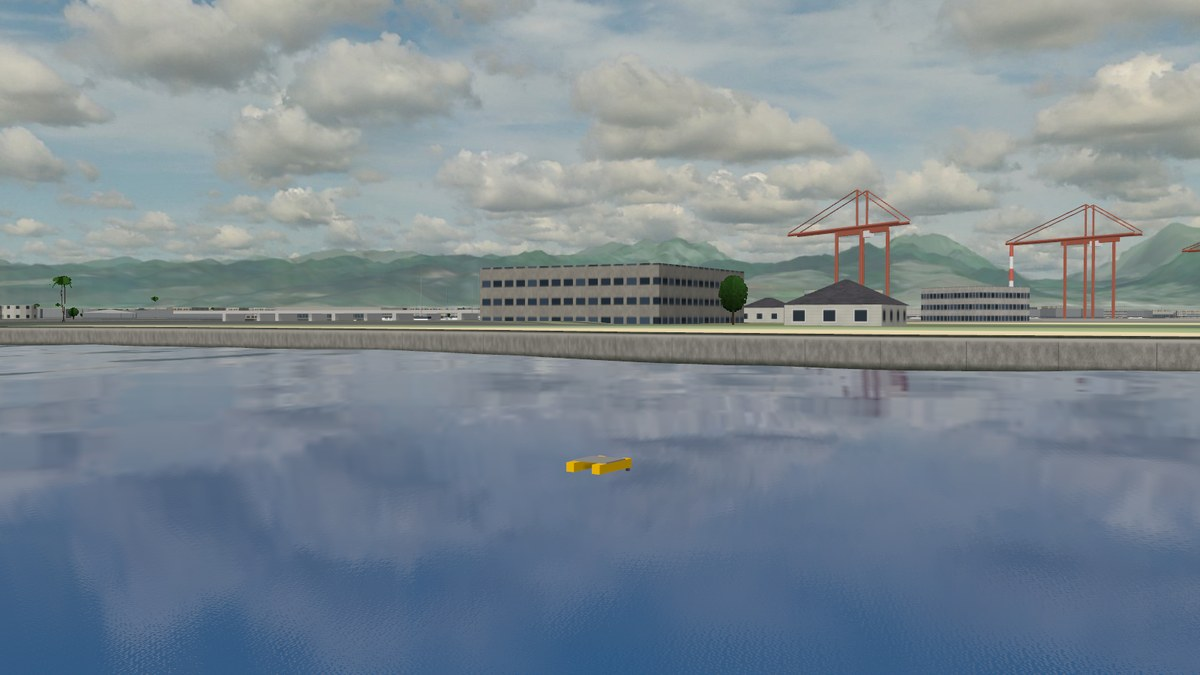
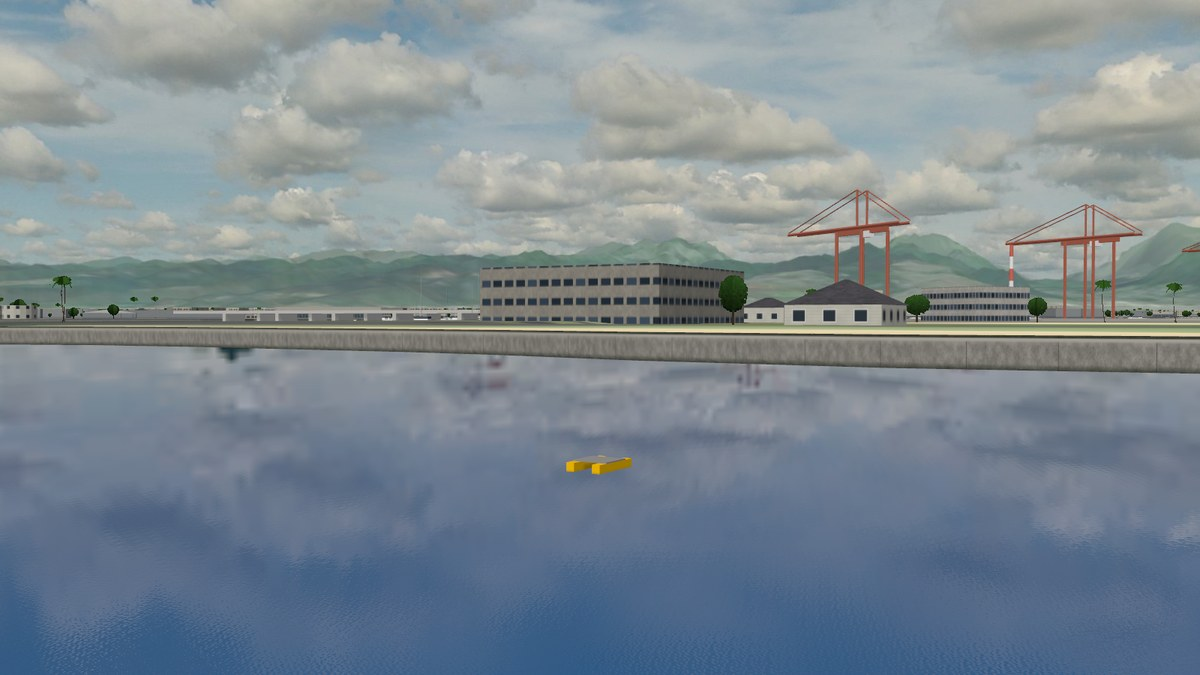
Docs: the BlueBoat at Sand Island in front of its container terminal, and every figure at the sea state it asks for
Assisted-by: Claude Code

diff --git a/docs/_tools/gazebo_figures.py b/docs/_tools/gazebo_figures.py
@@ -17,9 +17,8 @@ Regenerate the Gazebo screenshots used in the documentation.
 
 The studio pictures of the vehicles (docs/vehicles/images/*-studio.jpg) are
 not made here: they are renders composited onto a backdrop, copied in. Nor
-are the BlueBoat picture (docs/vehicles/images/blueboat.jpg) and the home
-picture (docs/images/home.jpg): they are frames of clips of the BlueBoat
-riding the waves on gz-maritime's Surface system, copied in.
+is the home picture (docs/images/home.jpg): it is a frame of a clip of three
+BlueBoats riding the waves on gz-maritime's Surface system, copied in.
 
 The BlueBoat in the figures below floats on the Surface system too: give it a
 model built with `configure_vehicle.py --buoyancy=surface` in place of
@@ -45,6 +44,7 @@ the site figures, the sites in the Fuel cache (run each world once).
 
 import os
 from pathlib import Path
+import re
 import subprocess
 import sys
 import tempfile
@@ -125,6 +125,19 @@ FIGURES = {
         'sea_state': 3,
         'camera': '57.7 116.7 2.4 0 -0.1 0.95',
         'fov': 0.9,
+        'at': [10],
+        'far': 5000,
+    },
+    # In the channel at Sand Island, the island's container terminal behind.
+    # Sea state 1, as calm as the water the site draws in the channel: the
+    # site's shelter map calms only the drawn sea.
+    'blueboat': {
+        'out': DOCS / 'vehicles' / 'images' / 'blueboat.jpg',
+        'world': 'sand_island',
+        'vehicles': [('model://blueboat', 'blueboat', '60 120 0.05 0 0 -2.6')],
+        'sea_state': 1,
+        'camera': '54.8 120 1.3 0 0.05 0',
+        'fov': SITE_FOV,
         'at': [10],
         'far': 5000,
     },
@@ -241,8 +254,8 @@ def figure_world(_figure):
              / 'worlds' / f'{_figure.get("world", "open_water")}.sdf').read_text()
     world = world.replace('<ambient>0.0 1.0 1.0</ambient>',
                           '<ambient>0.4 0.4 0.4</ambient>', 1)
-    world = world.replace('<sea_state>1</sea_state>',
-                          f'<sea_state>{_figure["sea_state"]}</sea_state>', 1)
+    world = re.sub(r'<sea_state>\d</sea_state>',
+                   f'<sea_state>{_figure["sea_state"]}</sea_state>', world)
     extra = ''.join(
         f'<include><uri>{v[0]}</uri><name>{v[1]}</name>'
         + (f'<pose>{v[2]}</pose>' if len(v) > 2 else '')

diff --git a/docs/vehicles/bluerobotics.md b/docs/vehicles/bluerobotics.md
@@ -1,9 +1,9 @@
 # BlueBoat and BlueROV2
 
 ```{figure} images/blueboat.jpg
-:alt: The BlueBoat, a blue twin hull surface vehicle with an antenna mast, riding the swell off Sand Island, the port cranes and mountains of Honolulu behind
+:alt: The BlueBoat, a blue twin hull surface vehicle with an antenna mast, in the channel at Sand Island, the island's container cranes, palms and quay behind and downtown Honolulu and the mountains beyond
 
-The BlueBoat riding a sea state 3 swell off Sand Island.
+The BlueBoat in the channel at Sand Island, in front of the island's container terminal.
 ```
 
 The Blue Robotics vehicles from
